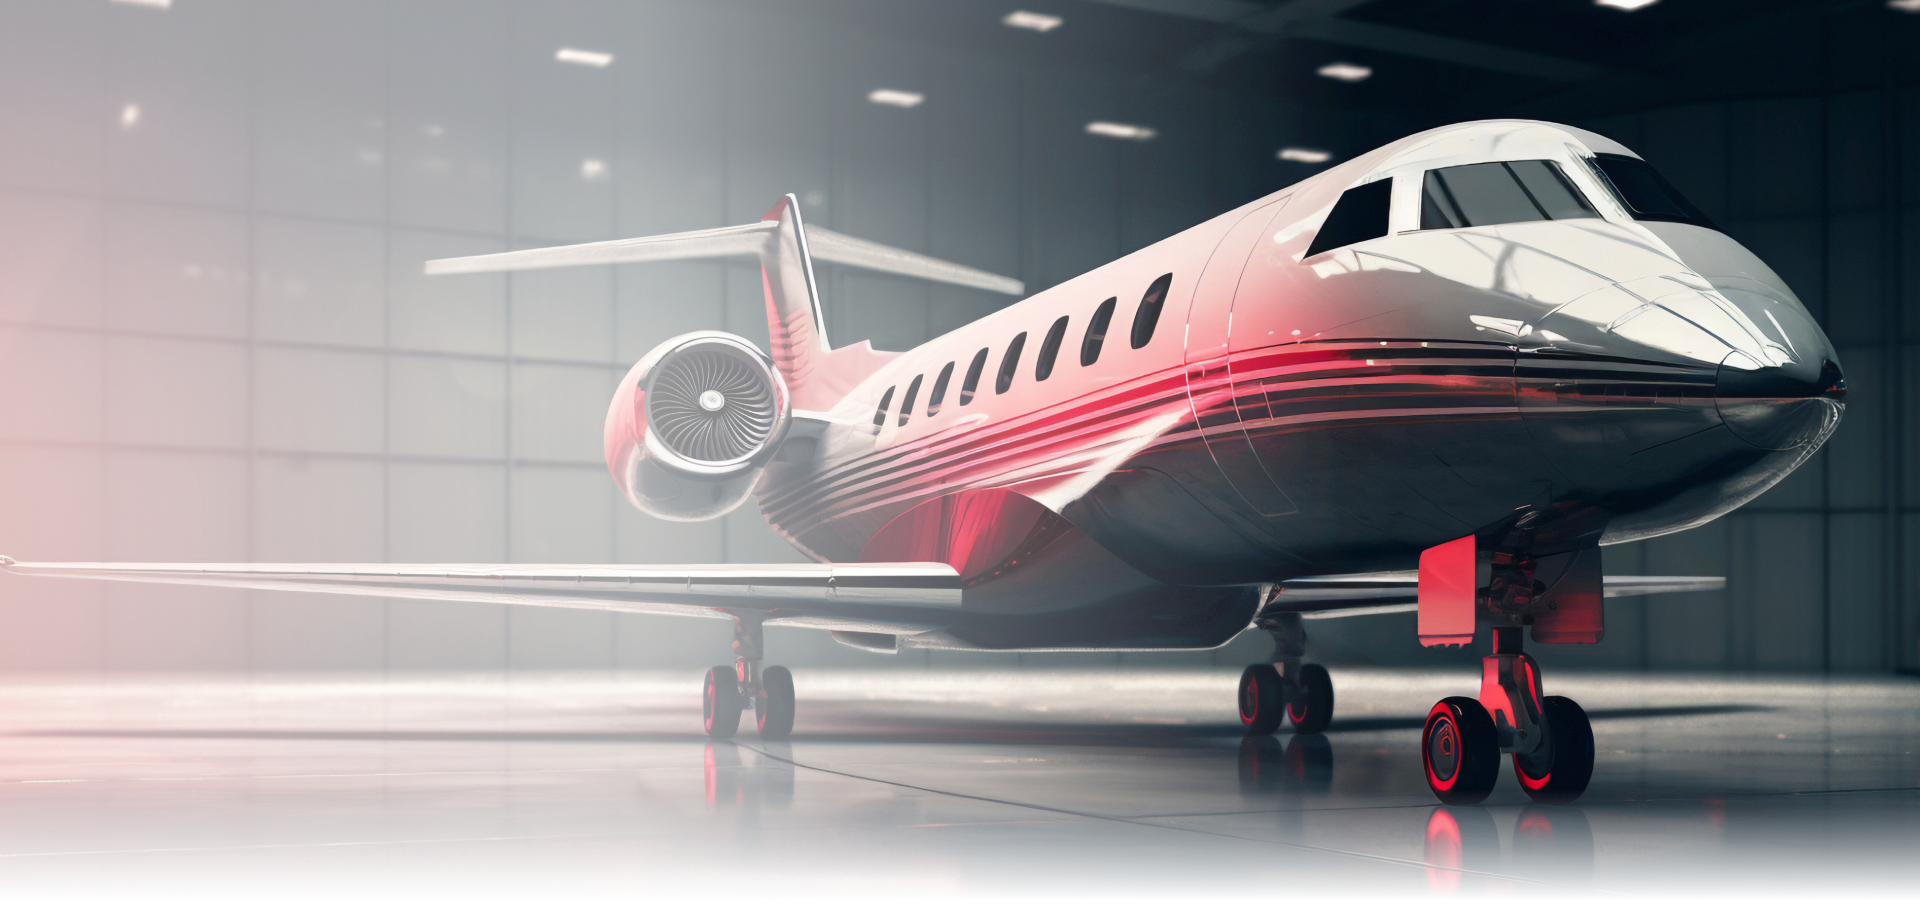
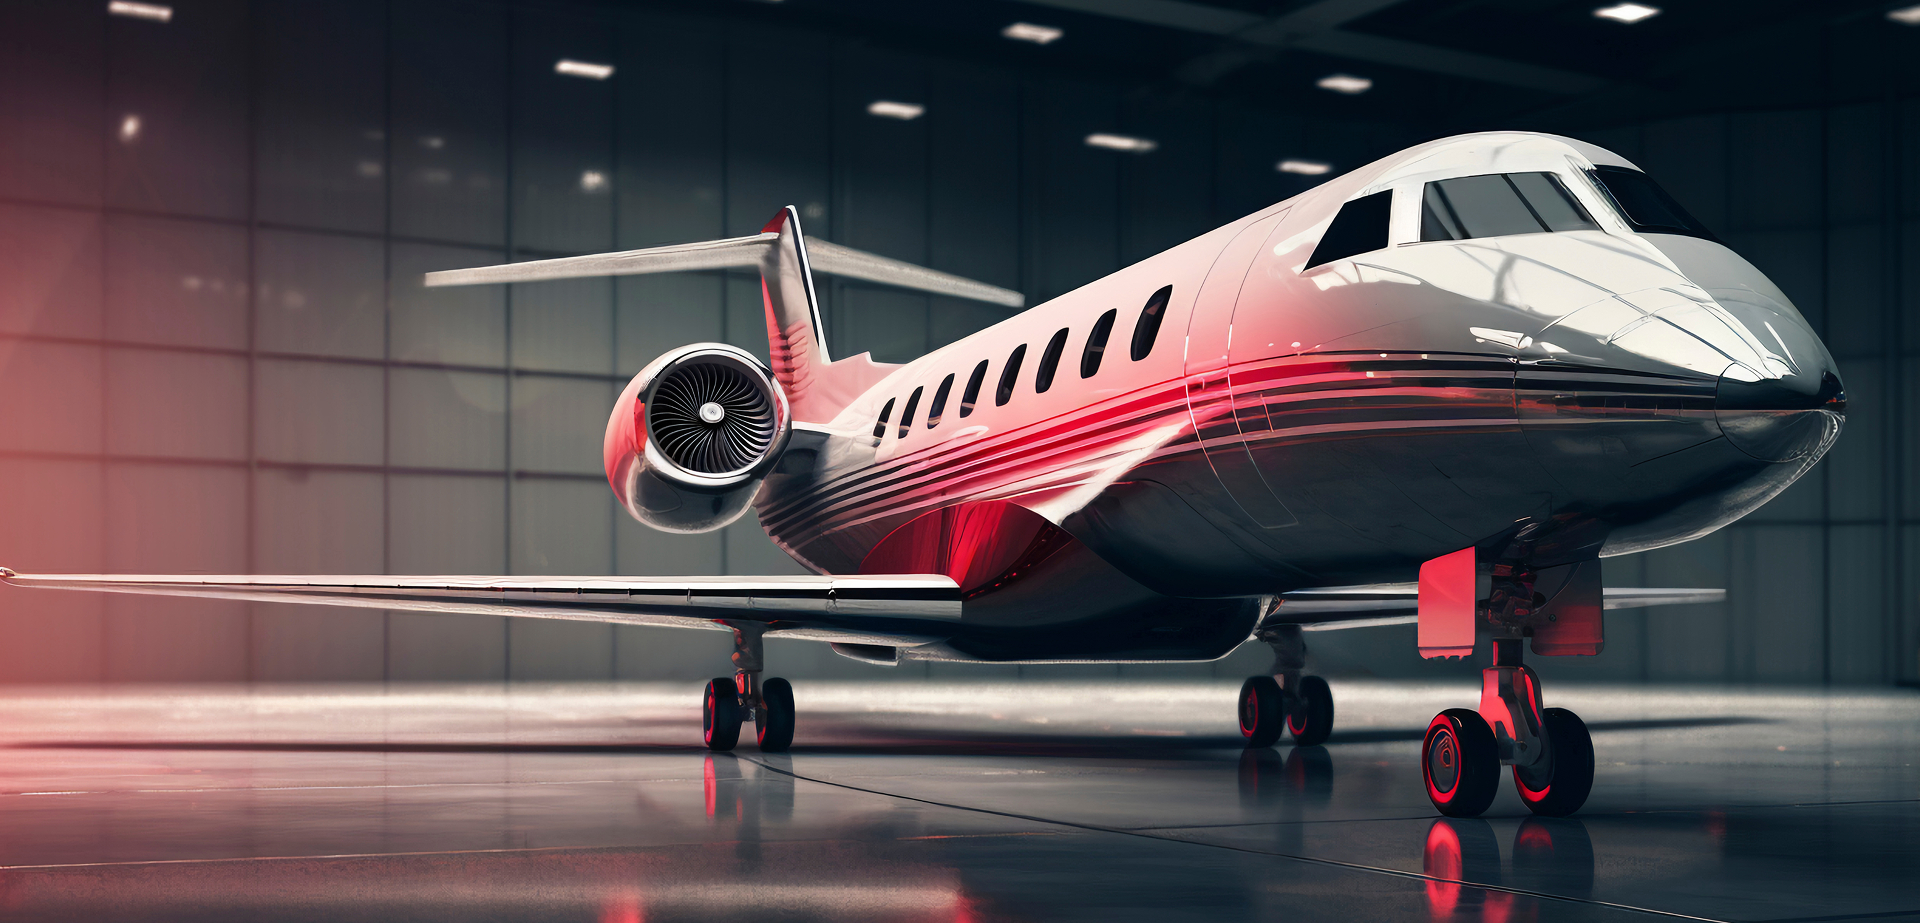
updated

diff --git a/css/style.css b/css/style.css
@@ -33,7 +33,7 @@ body {
 }
 
 .container {
-  max-width: 1550px;
+  max-width: 1440px;
   margin: 0 auto;
   padding: 0 15px;
   width: 100%;
@@ -70,9 +70,13 @@ a {
   margin: 0 auto;
 }
 
-.nav-items:not(:last-child) {
+.nav-items {
   margin-right: 60px;
 }
+.nav-items:last-child {
+  margin-right: 0;
+}
+
 .nav-items:first-child .nav-links {
   color: var(--yellow-text);
   position: relative;
@@ -187,7 +191,14 @@ a {
 .banner-sec {
   width: 100%;
   height: 900px;
-  background-image: url(../asset/banner-bg.png);
+  background: linear-gradient(
+      to right,
+      rgba(0, 0, 0, 0.85),
+      rgba(0, 0, 0, 0.6),
+      rgba(0, 0, 0, 0.3),
+      rgba(0, 0, 0, 0)
+    ),
+    url(../asset/banner-bg.png);
   background-color: var(--black);
   background-size: cover;
   background-position: right;
@@ -197,8 +208,7 @@ a {
 }
 
 .title-1 {
-  width: 856px;
-  height: 148px;
+  max-width: 856px;
   color: var(--white-text);
   font-family: var(--font-arlita);
   text-transform: capitalize;
@@ -207,8 +217,7 @@ a {
   margin-bottom: 34px;
 }
 .p1 {
-  width: 661px;
-  height: 89px;
+  max-width: 661px;
   color: var(--white-text);
   font-family: var(--font-Grotesk-Regular);
   text-transform: capitalize;
@@ -248,6 +257,6 @@ a {
   .menu {
     display: inline-block;
     color: var(--white-text);
-    margin-right: 44px;
+    margin-left: 44px;
   }
 }

diff --git a/index.html b/index.html
@@ -45,9 +45,6 @@
             </ul>
 
             <div class="nav-btn">
-              <div class="menu">
-                <i class="fa-solid fa-list"></i>
-              </div>
               <a href="" class="search-btn">
                 <svg
                   width="35"
@@ -96,6 +93,9 @@
                   />
                 </svg>
               </a>
+              <div class="menu">
+                <i class="fa-solid fa-list"></i>
+              </div>
             </div>
           </div>
         </nav>
